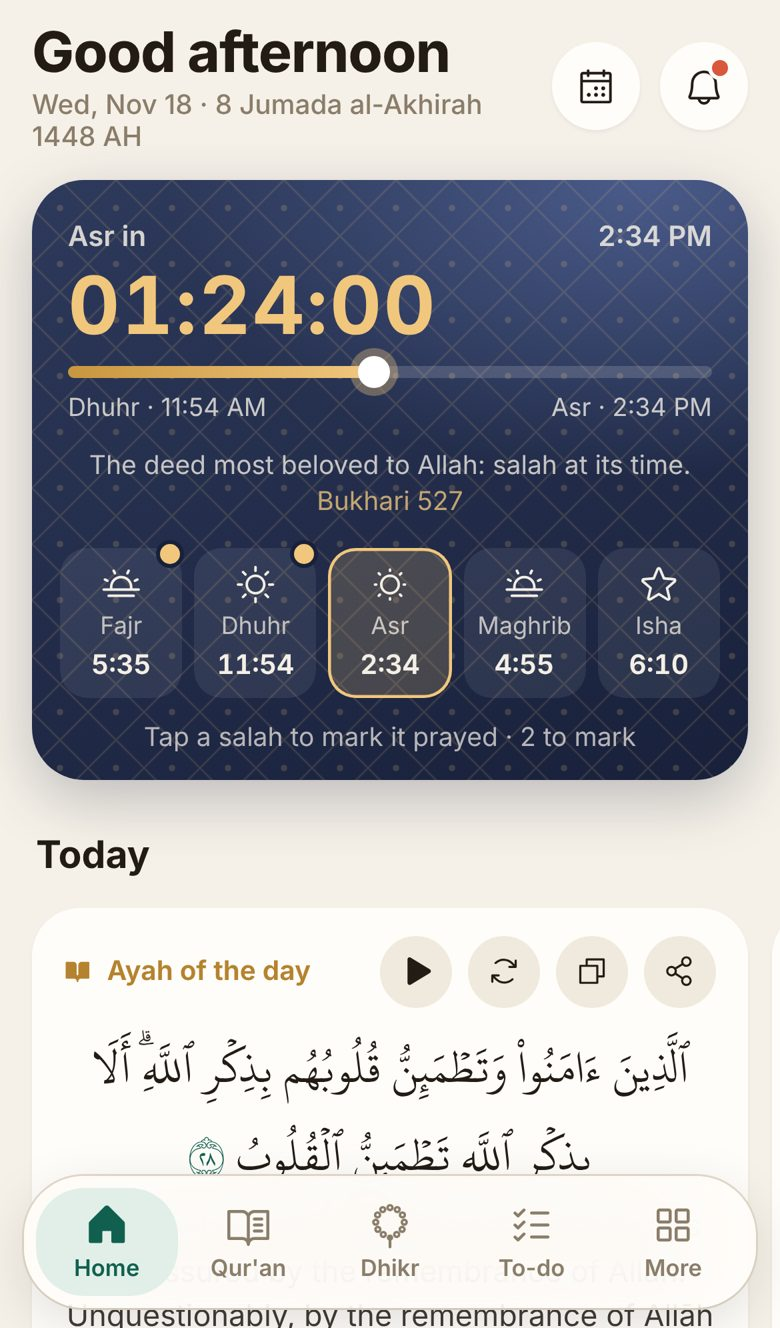
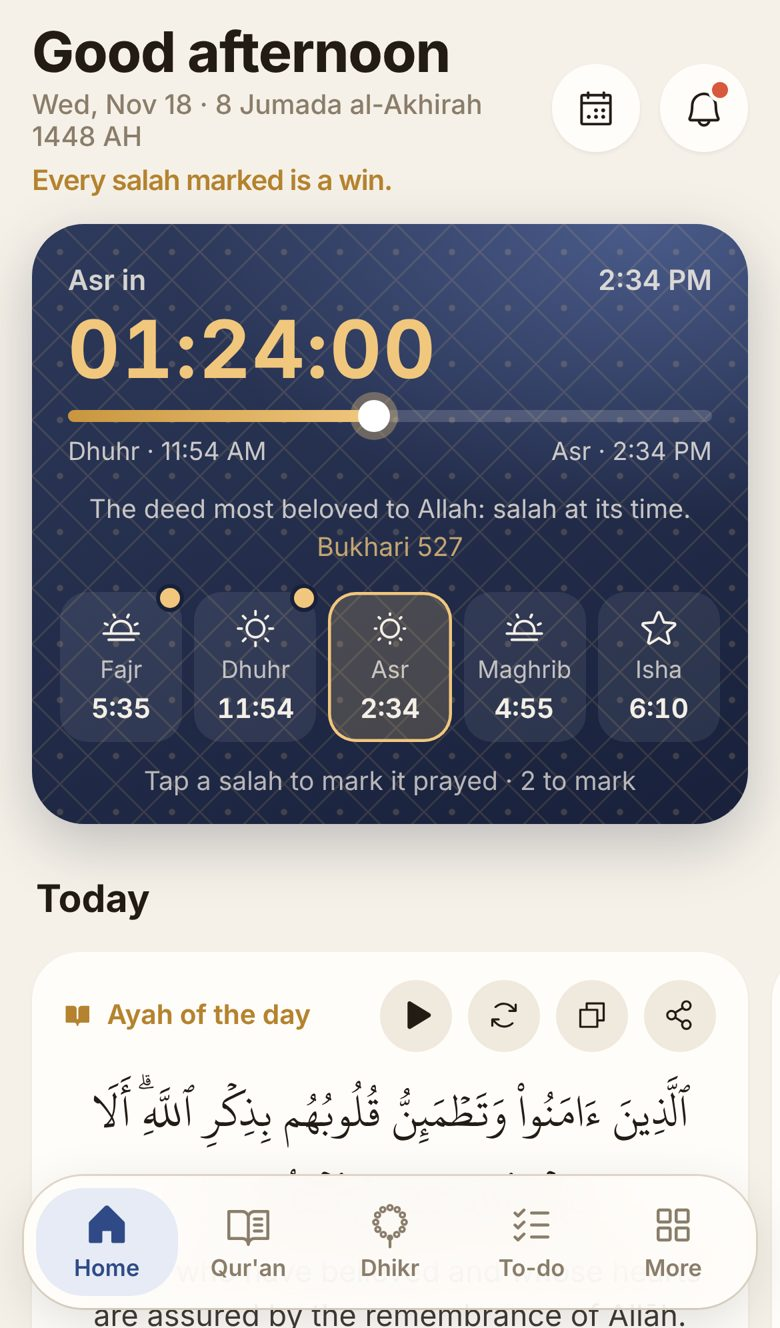
New design: after-salah drop-down, energy check in To-do, encouraging line under the date, blue accent instead of dark green
Claude-Session: https://claude.ai/code/session_01UECNpcPd5R831VkgaqRxPU

diff --git a/next/v5/index.html b/next/v5/index.html
@@ -14,8 +14,8 @@
 @font-face{font-family:Plex;src:url(../design/v/fonts/ibm-plex-sans-arabic-arabic-400-normal.woff2) format("woff2");font-weight:400}
 @font-face{font-family:Plex;src:url(../design/v/fonts/ibm-plex-sans-arabic-arabic-600-normal.woff2) format("woff2");font-weight:600}
 @font-face{font-family:Plex;src:url(../design/v/fonts/ibm-plex-sans-arabic-arabic-700-normal.woff2) format("woff2");font-weight:700}
-:root{--bg:#f6f1e8;--card:#fffdf9;--card2:#f0e9dd;--ink:#221c15;--sub:#8a7d6a;--line:#e6dccd;--acc:#11604f;--accT:#e2efe9;--gold:#b5832f;--goldT:#f6ead3;--night1:#18203a;--night2:#2e3a5c;--ok:#1f8a5c;--r:20px}
-html.dark{--bg:#12110e;--card:#1d1b17;--card2:#26231e;--ink:#f3eee5;--sub:#a59a88;--line:#2f2b24;--acc:#62c7a5;--accT:#163a30;--gold:#e0b265;--goldT:#3a2f1c;--night1:#0d1226;--night2:#1c2645}
+:root{--bg:#f6f1e8;--card:#fffdf9;--card2:#f0e9dd;--ink:#221c15;--sub:#8a7d6a;--line:#e6dccd;--acc:#2f4a86;--accT:#e6ebf6;--gold:#b5832f;--goldT:#f6ead3;--night1:#18203a;--night2:#2e3a5c;--ok:#1f8a5c;--r:20px}
+html.dark{--bg:#12110e;--card:#1d1b17;--card2:#26231e;--ink:#f3eee5;--sub:#a59a88;--line:#2f2b24;--acc:#9db8f0;--accT:#1c2645;--gold:#e0b265;--goldT:#3a2f1c;--night1:#0d1226;--night2:#1c2645}
 *{box-sizing:border-box;-webkit-tap-highlight-color:transparent}
 html,body{margin:0;background:var(--bg);color:var(--ink);font:16px/1.45 Inter,Plex,-apple-system,system-ui,sans-serif;-webkit-font-smoothing:antialiased}
 html[dir=rtl] body{font-family:Plex,Inter,-apple-system,sans-serif}
@@ -296,6 +296,18 @@ html.dark .big{color:#08251d}
 .kh .go{border:0;background:var(--accT);color:var(--acc);border-radius:16px;padding:8px 14px;font-weight:650;font-size:14px}
 .ghost{width:100%;height:52px;border-radius:18px;border:1.5px dashed var(--gold);background:none;color:var(--gold);font-weight:650;font-size:16px;display:flex;align-items:center;justify-content:center;gap:6px}
 .dc .am{color:var(--acc)}
+.aft{background:var(--card);border-radius:18px;margin:4px 0 10px;overflow:hidden}
+.aft summary{list-style:none;display:flex;align-items:center;gap:10px;padding:14px;font-weight:650;font-size:16px;cursor:pointer}.aft summary::-webkit-details-marker{display:none}
+.aft summary>i:first-child{font-size:22px;color:var(--gold)}.aft summary span{flex:1}.aft summary em{font-style:normal;font-size:13px;color:var(--sub);background:var(--card2);border-radius:999px;padding:3px 9px}
+.aft summary .cv{transition:transform .2s}.aft[open] summary .cv{transform:rotate(180deg)}
+.aft .ar-row{display:flex;gap:12px;align-items:flex-start;padding:10px 14px 12px;border-top:1px solid var(--line)}
+.aft .ck{flex:none;width:30px;height:30px;border-radius:50%;border:1.5px solid var(--line);background:none;color:transparent;font-weight:800;margin-top:1px}
+.aft .on .ck{background:var(--ok);border-color:var(--ok);color:#fff}
+.aft .tx b{display:block;font-size:15px}.aft .tx small{display:block;color:var(--sub);font-size:13px;line-height:1.45;margin-top:2px}.aft .tx a,.aft .src{color:var(--acc);text-decoration:none;white-space:nowrap}
+.insp{display:block;margin-top:6px;font-size:14px;font-weight:600;color:var(--gold)}
+.en{display:flex;align-items:center;gap:8px;margin:0 0 12px;font-size:14px;color:var(--sub)}.en b{font-weight:650;color:var(--ink);margin-inline-end:auto}
+.en button{border:0;border-radius:999px;padding:7px 12px;background:var(--card);color:var(--ink);font-size:13.5px;font-weight:600}.en button.on{background:var(--goldT);box-shadow:0 0 0 1.5px var(--gold) inset}
+.sz{font-style:normal;font-size:12px;color:var(--sub);background:var(--card2);border-radius:999px;padding:2px 8px;margin-inline-start:6px;white-space:nowrap}
 </style>
 </head>
 <body>
@@ -362,6 +374,7 @@ html.dark .big{color:#08251d}
 <!-- TODO -->
 <section class="scr" id="s-todo">
  <div class="hd"><h1 data-t="To-do|المهام"></h1></div>
+ <div class="en" id="en"></div>
  <form class="qa" id="qa"><input id="qaIn" autocomplete="off"><button aria-label="Add"><i class="ph ph-plus"></i></button></form>
  <div class="tk" id="tList"></div>
  <div class="sec"><h2 data-t="Done today|أُنجز اليوم"></h2></div>
@@ -425,7 +438,7 @@ html.dark .big{color:#08251d}
 <div class="toast" id="toast"></div>
 
 <script>
-const DATA={"Q":{"2:255":{"a":"ٱللَّهُ لَآ إِلَٰهَ إِلَّا هُوَ ٱلۡحَيُّ ٱلۡقَيُّومُۚ لَا تَأۡخُذُهُۥ سِنَةࣱ وَلَا نَوۡمࣱۚ لَّهُۥ مَا فِي ٱلسَّمَٰوَٰتِ وَمَا فِي ٱلۡأَرۡضِۗ مَن ذَا ٱلَّذِي يَشۡفَعُ عِندَهُۥٓ إِلَّا بِإِذۡنِهِۦۚ يَعۡلَمُ مَا بَيۡنَ أَيۡدِيهِمۡ وَمَا خَلۡفَهُمۡۖ وَلَا يُحِيطُونَ بِشَيۡءࣲ مِّنۡ عِلۡمِهِۦٓ إِلَّا بِمَا شَآءَۚ وَسِعَ كُرۡسِيُّهُ ٱلسَّمَٰوَٰتِ وَٱلۡأَرۡضَۖ وَلَا يَـُٔودُهُۥ حِفۡظُهُمَاۚ وَهُوَ ٱلۡعَلِيُّ ٱلۡعَظِيمُ","en":"Allāh - there is no deity except Him, the Ever-Living, the Self-Sustaining. Neither drowsiness overtakes Him nor sleep. To Him belongs whatever is in the heavens and whatever is on the earth. Who is it that can intercede with Him except by His permission? He knows what is [presently] before them and what will be after them, and they encompass not a thing of His knowledge except for what He wills. His Kursī extends over the heavens and the earth, and their preservation tires Him not. And He is the Most High, the Most Great."},"2:285":{"a":"ءَامَنَ ٱلرَّسُولُ بِمَآ أُنزِلَ إِلَيۡهِ مِن رَّبِّهِۦ وَٱلۡمُؤۡمِنُونَۚ كُلٌّ ءَامَنَ بِٱللَّهِ وَمَلَٰٓئِكَتِهِۦ وَكُتُبِهِۦ وَرُسُلِهِۦ لَا نُفَرِّقُ بَيۡنَ أَحَدࣲ مِّن رُّسُلِهِۦۚ وَقَالُواْ سَمِعۡنَا وَأَطَعۡنَاۖ غُفۡرَانَكَ رَبَّنَا وَإِلَيۡكَ ٱلۡمَصِيرُ","en":"The Messenger has believed in what was revealed to him from his Lord, and [so have] the believers. All of them have believed in Allāh and His angels and His books and His messengers, [saying], \"We make no distinction between any of His messengers.\" And they say, \"We hear and we obey. [We seek] Your forgiveness, our Lord, and to You is the [final] destination.\""},"2:286":{"a":"لَا يُكَلِّفُ ٱللَّهُ نَفۡسًا إِلَّا وُسۡعَهَاۚ لَهَا مَا كَسَبَتۡ وَعَلَيۡهَا مَا ٱكۡتَسَبَتۡۗ رَبَّنَا لَا تُؤَاخِذۡنَآ إِن نَّسِينَآ أَوۡ أَخۡطَأۡنَاۚ رَبَّنَا وَلَا تَحۡمِلۡ عَلَيۡنَآ إِصۡرࣰا كَمَا حَمَلۡتَهُۥ عَلَى ٱلَّذِينَ مِن قَبۡلِنَاۚ رَبَّنَا وَلَا تُحَمِّلۡنَا مَا لَا طَاقَةَ لَنَا بِهِۦۖ وَٱعۡفُ عَنَّا وَٱغۡفِرۡ لَنَا وَٱرۡحَمۡنَآۚ أَنتَ مَوۡلَىٰنَا فَٱنصُرۡنَا عَلَى ٱلۡقَوۡمِ ٱلۡكَٰفِرِينَ","en":"Allāh does not charge a soul except [with that within] its capacity. It will have [the consequence of] what [good] it has gained, and it will bear [the consequence of] what [evil] it has earned. \"Our Lord, do not impose blame upon us if we have forgotten or erred. Our Lord, and lay not upon us a burden like that which You laid upon those before us. Our Lord, and burden us not with that which we have no ability to bear. And pardon us; and forgive us; and have mercy upon us. You are our protector, so give us victory over the disbelieving people.\""},"94:5":{"a":"فَإِنَّ مَعَ ٱلۡعُسۡرِ يُسۡرًا","en":"For indeed, with hardship [will be] ease [i.e., relief]."},"94:6":{"a":"إِنَّ مَعَ ٱلۡعُسۡرِ يُسۡرࣰا","en":"Indeed, with hardship [will be] ease."},"94:7":{"a":"فَإِذَا فَرَغۡتَ فَٱنصَبۡ","en":"So when you have finished [your duties], then stand up [for worship]."},"94:8":{"a":"وَإِلَىٰ رَبِّكَ فَٱرۡغَب","en":"And to your Lord direct [your] longing."},"112:1":{"a":"قُلۡ هُوَ ٱللَّهُ أَحَدٌ","en":"Say, \"He is Allāh, [who is] One,"},"112:2":{"a":"ٱللَّهُ ٱلصَّمَدُ","en":"Allāh, the Eternal Refuge."},"112:3":{"a":"لَمۡ يَلِدۡ وَلَمۡ يُولَدۡ","en":"He neither begets nor is born,"},"112:4":{"a":"وَلَمۡ يَكُن لَّهُۥ كُفُوًا أَحَدُۢ","en":"Nor is there to Him any equivalent.\""},"113:1":{"a":"قُلۡ أَعُوذُ بِرَبِّ ٱلۡفَلَقِ","en":"Say, \"I seek refuge in the Lord of daybreak"},"113:2":{"a":"مِن شَرِّ مَا خَلَقَ","en":"From the evil of that which He created"},"113:3":{"a":"وَمِن شَرِّ غَاسِقٍ إِذَا وَقَبَ","en":"And from the evil of darkness when it settles"},"113:4":{"a":"وَمِن شَرِّ ٱلنَّفَّٰثَٰتِ فِي ٱلۡعُقَدِ","en":"And from the evil of the blowers in knots"},"113:5":{"a":"وَمِن شَرِّ حَاسِدٍ إِذَا حَسَدَ","en":"And from the evil of an envier when he envies.\""},"114:1":{"a":"قُلۡ أَعُوذُ بِرَبِّ ٱلنَّاسِ","en":"Say, \"I seek refuge in the Lord of mankind,"},"114:2":{"a":"مَلِكِ ٱلنَّاسِ","en":"The Sovereign of mankind,"},"114:3":{"a":"إِلَٰهِ ٱلنَّاسِ","en":"The God of mankind,"},"114:4":{"a":"مِن شَرِّ ٱلۡوَسۡوَاسِ ٱلۡخَنَّاسِ","en":"From the evil of the retreating whisperer -"},"114:5":{"a":"ٱلَّذِي يُوَسۡوِسُ فِي صُدُورِ ٱلنَّاسِ","en":"Who whispers [evil] into the breasts of mankind -"},"114:6":{"a":"مِنَ ٱلۡجِنَّةِ وَٱلنَّاسِ","en":"From among the jinn and mankind.\""},"13:28":{"a":"ٱلَّذِينَ ءَامَنُواْ وَتَطۡمَئِنُّ قُلُوبُهُم بِذِكۡرِ ٱللَّهِۗ أَلَا بِذِكۡرِ ٱللَّهِ تَطۡمَئِنُّ ٱلۡقُلُوبُ","en":"Those who have believed and whose hearts are assured by the remembrance of Allāh. Unquestionably, by the remembrance of Allāh hearts are assured."}},"S":[["Al-Fatihah","الفاتحة",7],["Al-Baqarah","البقرة",286],["Ali 'Imran","آل عمران",200],["An-Nisa","النساء",176],["Al-Ma'idah","المائدة",120],["Al-An'am","الأنعام",165],["Al-A'raf","الأعراف",206],["Al-Anfal","الأنفال",75],["At-Tawbah","التوبة",129],["Yunus","يونس",109],["Hud","هود",123],["Yusuf","يوسف",111],["Ar-Ra'd","الرعد",43],["Ibrahim","إبراهيم",52],["Al-Hijr","الحجر",99],["An-Nahl","النحل",128],["Al-Isra","الإسراء",111],["Al-Kahf","الكهف",110],["Maryam","مريم",98],["Ta-Ha","طه",135],["Al-Anbiya","الأنبياء",112],["Al-Hajj","الحج",78],["Al-Mu'minun","المؤمنون",118],["An-Nur","النور",64],["Al-Furqan","الفرقان",77],["Ash-Shu'ara","الشعراء",227],["An-Naml","النمل",93],["Al-Qasas","القصص",88],["Al-'Ankabut","العنكبوت",69],["Ar-Rum","الروم",60],["Luqman","لقمان",34],["As-Sajdah","السجدة",30],["Al-Ahzab","الأحزاب",73],["Saba","سبأ",54],["Fatir","فاطر",45],["Ya-Sin","يس",83],["As-Saffat","الصافات",182],["Sad","ص",88],["Az-Zumar","الزمر",75],["Ghafir","غافر",85],["Fussilat","فصلت",54],["Ash-Shura","الشورى",53],["Az-Zukhruf","الزخرف",89],["Ad-Dukhan","الدخان",59],["Al-Jathiyah","الجاثية",37],["Al-Ahqaf","الأحقاف",35],["Muhammad","محمد",38],["Al-Fath","الفتح",29],["Al-Hujurat","الحجرات",18],["Qaf","ق",45],["Adh-Dhariyat","الذاريات",60],["At-Tur","الطور",49],["An-Najm","النجم",62],["Al-Qamar","القمر",55],["Ar-Rahman","الرحمن",78],["Al-Waqi'ah","الواقعة",96],["Al-Hadid","الحديد",29],["Al-Mujadilah","المجادلة",22],["Al-Hashr","الحشر",24],["Al-Mumtahanah","الممتحنة",13],["As-Saff","الصف",14],["Al-Jumu'ah","الجمعة",11],["Al-Munafiqun","المنافقون",11],["At-Taghabun","التغابن",18],["At-Talaq","الطلاق",12],["At-Tahrim","التحريم",12],["Al-Mulk","الملك",30],["Al-Qalam","القلم",52],["Al-Haqqah","الحاقة",52],["Al-Ma'arij","المعارج",44],["Nuh","نوح",28],["Al-Jinn","الجن",28],["Al-Muzzammil","المزمل",20],["Al-Muddaththir","المدثر",56],["Al-Qiyamah","القيامة",40],["Al-Insan","الإنسان",31],["Al-Mursalat","المرسلات",50],["An-Naba","النبأ",40],["An-Nazi'at","النازعات",46],["'Abasa","عبس",42],["At-Takwir","التكوير",29],["Al-Infitar","الانفطار",19],["Al-Mutaffifin","المطففين",36],["Al-Inshiqaq","الانشقاق",25],["Al-Buruj","البروج",22],["At-Tariq","الطارق",17],["Al-A'la","الأعلى",19],["Al-Ghashiyah","الغاشية",26],["Al-Fajr","الفجر",30],["Al-Balad","البلد",20],["Ash-Shams","الشمس",15],["Al-Layl","الليل",21],["Ad-Duha","الضحى",11],["Ash-Sharh","الشرح",8],["At-Tin","التين",8],["Al-'Alaq","العلق",19],["Al-Qadr","القدر",5],["Al-Bayyinah","البينة",8],["Az-Zalzalah","الزلزلة",8],["Al-'Adiyat","العاديات",11],["Al-Qari'ah","القارعة",11],["At-Takathur","التكاثر",8],["Al-'Asr","العصر",3],["Al-Humazah","الهمزة",9],["Al-Fil","الفيل",5],["Quraysh","قريش",4],["Al-Ma'un","الماعون",7],["Al-Kawthar","الكوثر",3],["Al-Kafirun","الكافرون",6],["An-Nasr","النصر",3],["Al-Masad","المسد",5],["Al-Ikhlas","الإخلاص",4],["Al-Falaq","الفلق",5],["An-Nas","الناس",6]]};const QD=DATA.Q,SU=DATA.S;for(const k in QD)QD[k].a=QD[k].a.replace(/\u08F0/g,'\u064B').replace(/\u08F1/g,'\u064C').replace(/\u08F2/g,'\u064D');
+const DATA={"Q":{"2:255":{"a":"ٱللَّهُ لَآ إِلَٰهَ إِلَّا هُوَ ٱلۡحَيُّ ٱلۡقَيُّومُۚ لَا تَأۡخُذُهُۥ سِنَةٌ وَلَا نَوۡمٌۚ لَّهُۥ مَا فِي ٱلسَّمَٰوَٰتِ وَمَا فِي ٱلۡأَرۡضِۗ مَن ذَا ٱلَّذِي يَشۡفَعُ عِندَهُۥٓ إِلَّا بِإِذۡنِهِۦۚ يَعۡلَمُ مَا بَيۡنَ أَيۡدِيهِمۡ وَمَا خَلۡفَهُمۡۖ وَلَا يُحِيطُونَ بِشَيۡءٍ مِّنۡ عِلۡمِهِۦٓ إِلَّا بِمَا شَآءَۚ وَسِعَ كُرۡسِيُّهُ ٱلسَّمَٰوَٰتِ وَٱلۡأَرۡضَۖ وَلَا يَـُٔودُهُۥ حِفۡظُهُمَاۚ وَهُوَ ٱلۡعَلِيُّ ٱلۡعَظِيمُ","en":"Allāh - there is no deity except Him, the Ever-Living, the Self-Sustaining. Neither drowsiness overtakes Him nor sleep. To Him belongs whatever is in the heavens and whatever is on the earth. Who is it that can intercede with Him except by His permission? He knows what is [presently] before them and what will be after them, and they encompass not a thing of His knowledge except for what He wills. His Kursī extends over the heavens and the earth, and their preservation tires Him not. And He is the Most High, the Most Great."},"2:285":{"a":"ءَامَنَ ٱلرَّسُولُ بِمَآ أُنزِلَ إِلَيۡهِ مِن رَّبِّهِۦ وَٱلۡمُؤۡمِنُونَۚ كُلٌّ ءَامَنَ بِٱللَّهِ وَمَلَٰٓئِكَتِهِۦ وَكُتُبِهِۦ وَرُسُلِهِۦ لَا نُفَرِّقُ بَيۡنَ أَحَدٍ مِّن رُّسُلِهِۦۚ وَقَالُواْ سَمِعۡنَا وَأَطَعۡنَاۖ غُفۡرَانَكَ رَبَّنَا وَإِلَيۡكَ ٱلۡمَصِيرُ","en":"The Messenger has believed in what was revealed to him from his Lord, and [so have] the believers. All of them have believed in Allāh and His angels and His books and His messengers, [saying], \"We make no distinction between any of His messengers.\" And they say, \"We hear and we obey. [We seek] Your forgiveness, our Lord, and to You is the [final] destination.\""},"2:286":{"a":"لَا يُكَلِّفُ ٱللَّهُ نَفۡسًا إِلَّا وُسۡعَهَاۚ لَهَا مَا كَسَبَتۡ وَعَلَيۡهَا مَا ٱكۡتَسَبَتۡۗ رَبَّنَا لَا تُؤَاخِذۡنَآ إِن نَّسِينَآ أَوۡ أَخۡطَأۡنَاۚ رَبَّنَا وَلَا تَحۡمِلۡ عَلَيۡنَآ إِصۡرًا كَمَا حَمَلۡتَهُۥ عَلَى ٱلَّذِينَ مِن قَبۡلِنَاۚ رَبَّنَا وَلَا تُحَمِّلۡنَا مَا لَا طَاقَةَ لَنَا بِهِۦۖ وَٱعۡفُ عَنَّا وَٱغۡفِرۡ لَنَا وَٱرۡحَمۡنَآۚ أَنتَ مَوۡلَىٰنَا فَٱنصُرۡنَا عَلَى ٱلۡقَوۡمِ ٱلۡكَٰفِرِينَ","en":"Allāh does not charge a soul except [with that within] its capacity. It will have [the consequence of] what [good] it has gained, and it will bear [the consequence of] what [evil] it has earned. \"Our Lord, do not impose blame upon us if we have forgotten or erred. Our Lord, and lay not upon us a burden like that which You laid upon those before us. Our Lord, and burden us not with that which we have no ability to bear. And pardon us; and forgive us; and have mercy upon us. You are our protector, so give us victory over the disbelieving people.\""},"94:5":{"a":"فَإِنَّ مَعَ ٱلۡعُسۡرِ يُسۡرًا","en":"For indeed, with hardship [will be] ease [i.e., relief]."},"94:6":{"a":"إِنَّ مَعَ ٱلۡعُسۡرِ يُسۡرًا","en":"Indeed, with hardship [will be] ease."},"94:7":{"a":"فَإِذَا فَرَغۡتَ فَٱنصَبۡ","en":"So when you have finished [your duties], then stand up [for worship]."},"94:8":{"a":"وَإِلَىٰ رَبِّكَ فَٱرۡغَب","en":"And to your Lord direct [your] longing."},"112:1":{"a":"قُلۡ هُوَ ٱللَّهُ أَحَدٌ","en":"Say, \"He is Allāh, [who is] One,"},"112:2":{"a":"ٱللَّهُ ٱلصَّمَدُ","en":"Allāh, the Eternal Refuge."},"112:3":{"a":"لَمۡ يَلِدۡ وَلَمۡ يُولَدۡ","en":"He neither begets nor is born,"},"112:4":{"a":"وَلَمۡ يَكُن لَّهُۥ كُفُوًا أَحَدُۢ","en":"Nor is there to Him any equivalent.\""},"113:1":{"a":"قُلۡ أَعُوذُ بِرَبِّ ٱلۡفَلَقِ","en":"Say, \"I seek refuge in the Lord of daybreak"},"113:2":{"a":"مِن شَرِّ مَا خَلَقَ","en":"From the evil of that which He created"},"113:3":{"a":"وَمِن شَرِّ غَاسِقٍ إِذَا وَقَبَ","en":"And from the evil of darkness when it settles"},"113:4":{"a":"وَمِن شَرِّ ٱلنَّفَّٰثَٰتِ فِي ٱلۡعُقَدِ","en":"And from the evil of the blowers in knots"},"113:5":{"a":"وَمِن شَرِّ حَاسِدٍ إِذَا حَسَدَ","en":"And from the evil of an envier when he envies.\""},"114:1":{"a":"قُلۡ أَعُوذُ بِرَبِّ ٱلنَّاسِ","en":"Say, \"I seek refuge in the Lord of mankind,"},"114:2":{"a":"مَلِكِ ٱلنَّاسِ","en":"The Sovereign of mankind,"},"114:3":{"a":"إِلَٰهِ ٱلنَّاسِ","en":"The God of mankind,"},"114:4":{"a":"مِن شَرِّ ٱلۡوَسۡوَاسِ ٱلۡخَنَّاسِ","en":"From the evil of the retreating whisperer -"},"114:5":{"a":"ٱلَّذِي يُوَسۡوِسُ فِي صُدُورِ ٱلنَّاسِ","en":"Who whispers [evil] into the breasts of mankind -"},"114:6":{"a":"مِنَ ٱلۡجِنَّةِ وَٱلنَّاسِ","en":"From among the jinn and mankind.\""},"13:28":{"a":"ٱلَّذِينَ ءَامَنُواْ وَتَطۡمَئِنُّ قُلُوبُهُم بِذِكۡرِ ٱللَّهِۗ أَلَا بِذِكۡرِ ٱللَّهِ تَطۡمَئِنُّ ٱلۡقُلُوبُ","en":"Those who have believed and whose hearts are assured by the remembrance of Allāh. Unquestionably, by the remembrance of Allāh hearts are assured."}},"S":[["Al-Fatihah","الفاتحة",7],["Al-Baqarah","البقرة",286],["Ali 'Imran","آل عمران",200],["An-Nisa","النساء",176],["Al-Ma'idah","المائدة",120],["Al-An'am","الأنعام",165],["Al-A'raf","الأعراف",206],["Al-Anfal","الأنفال",75],["At-Tawbah","التوبة",129],["Yunus","يونس",109],["Hud","هود",123],["Yusuf","يوسف",111],["Ar-Ra'd","الرعد",43],["Ibrahim","إبراهيم",52],["Al-Hijr","الحجر",99],["An-Nahl","النحل",128],["Al-Isra","الإسراء",111],["Al-Kahf","الكهف",110],["Maryam","مريم",98],["Ta-Ha","طه",135],["Al-Anbiya","الأنبياء",112],["Al-Hajj","الحج",78],["Al-Mu'minun","المؤمنون",118],["An-Nur","النور",64],["Al-Furqan","الفرقان",77],["Ash-Shu'ara","الشعراء",227],["An-Naml","النمل",93],["Al-Qasas","القصص",88],["Al-'Ankabut","العنكبوت",69],["Ar-Rum","الروم",60],["Luqman","لقمان",34],["As-Sajdah","السجدة",30],["Al-Ahzab","الأحزاب",73],["Saba","سبأ",54],["Fatir","فاطر",45],["Ya-Sin","يس",83],["As-Saffat","الصافات",182],["Sad","ص",88],["Az-Zumar","الزمر",75],["Ghafir","غافر",85],["Fussilat","فصلت",54],["Ash-Shura","الشورى",53],["Az-Zukhruf","الزخرف",89],["Ad-Dukhan","الدخان",59],["Al-Jathiyah","الجاثية",37],["Al-Ahqaf","الأحقاف",35],["Muhammad","محمد",38],["Al-Fath","الفتح",29],["Al-Hujurat","الحجرات",18],["Qaf","ق",45],["Adh-Dhariyat","الذاريات",60],["At-Tur","الطور",49],["An-Najm","النجم",62],["Al-Qamar","القمر",55],["Ar-Rahman","الرحمن",78],["Al-Waqi'ah","الواقعة",96],["Al-Hadid","الحديد",29],["Al-Mujadilah","المجادلة",22],["Al-Hashr","الحشر",24],["Al-Mumtahanah","الممتحنة",13],["As-Saff","الصف",14],["Al-Jumu'ah","الجمعة",11],["Al-Munafiqun","المنافقون",11],["At-Taghabun","التغابن",18],["At-Talaq","الطلاق",12],["At-Tahrim","التحريم",12],["Al-Mulk","الملك",30],["Al-Qalam","القلم",52],["Al-Haqqah","الحاقة",52],["Al-Ma'arij","المعارج",44],["Nuh","نوح",28],["Al-Jinn","الجن",28],["Al-Muzzammil","المزمل",20],["Al-Muddaththir","المدثر",56],["Al-Qiyamah","القيامة",40],["Al-Insan","الإنسان",31],["Al-Mursalat","المرسلات",50],["An-Naba","النبأ",40],["An-Nazi'at","النازعات",46],["'Abasa","عبس",42],["At-Takwir","التكوير",29],["Al-Infitar","الانفطار",19],["Al-Mutaffifin","المطففين",36],["Al-Inshiqaq","الانشقاق",25],["Al-Buruj","البروج",22],["At-Tariq","الطارق",17],["Al-A'la","الأعلى",19],["Al-Ghashiyah","الغاشية",26],["Al-Fajr","الفجر",30],["Al-Balad","البلد",20],["Ash-Shams","الشمس",15],["Al-Layl","الليل",21],["Ad-Duha","الضحى",11],["Ash-Sharh","الشرح",8],["At-Tin","التين",8],["Al-'Alaq","العلق",19],["Al-Qadr","القدر",5],["Al-Bayyinah","البينة",8],["Az-Zalzalah","الزلزلة",8],["Al-'Adiyat","العاديات",11],["Al-Qari'ah","القارعة",11],["At-Takathur","التكاثر",8],["Al-'Asr","العصر",3],["Al-Humazah","الهمزة",9],["Al-Fil","الفيل",5],["Quraysh","قريش",4],["Al-Ma'un","الماعون",7],["Al-Kawthar","الكوثر",3],["Al-Kafirun","الكافرون",6],["An-Nasr","النصر",3],["Al-Masad","المسد",5],["Al-Ikhlas","الإخلاص",4],["Al-Falaq","الفلق",5],["An-Nas","الناس",6]]};const QD=DATA.Q,SU=DATA.S;for(const k in QD)QD[k].a=QD[k].a.replace(/\u08F0/g,'\u064B').replace(/\u08F1/g,'\u064C').replace(/\u08F2/g,'\u064D');
 const P=new URLSearchParams(location.search);
 let L=P.get('lang')==='ar'||localStorage.getItem('fq5.lang')==='ar'?'ar':'en';if(P.get('lang')==='en')L='en';
 const T=(e,a)=>L==='ar'?a:e;
@@ -457,7 +470,7 @@ const hm=m=>T(HM_EN[m-1],HM_AR[m-1]);
 /* ---------- state ---------- */
 let S=store('state')||{};
 S.salah=S.salah||{};S.stars=S.stars||0;S.starLog=S.starLog||{};
-S.tasks=S.tasks||[{id:1,t:T('Reply to the school email','الرد على بريد المدرسة'),due:T('Today, 4:00 PM','اليوم، ٤:٠٠ م'),p:'h'},{id:2,t:T('Buy groceries','شراء البقالة'),due:T('Today','اليوم'),p:'m'},{id:3,t:T('Read 2 pages of Qur\'an','قراءة صفحتين من القرآن'),due:T('After Isha','بعد العشاء'),p:'l'},{id:4,t:T('Call the clinic','الاتصال بالعيادة'),due:T('Tomorrow, 10:00 AM','غدًا، ١٠:٠٠ ص'),p:'m'}];
+S.tasks=S.tasks||[{id:1,t:T('Reply to the school email','الرد على بريد المدرسة'),due:T('Today, 4:00 PM','اليوم، ٤:٠٠ م'),p:'h',sz:'s'},{id:2,t:T('Buy groceries','شراء البقالة'),due:T('Today','اليوم'),p:'m',sz:'l'},{id:3,t:T('Read 2 pages of Qur\'an','قراءة صفحتين من القرآن'),due:T('After Isha','بعد العشاء'),p:'l',sz:'m'},{id:4,t:T('Call the clinic','الاتصال بالعيادة'),due:T('Tomorrow, 10:00 AM','غدًا، ١٠:٠٠ ص'),p:'m',sz:'s'}];
 S.done=S.done||[];S.sc=S.sc||['kursi','tasbih','morning','evening','qibla','cal','todo'];S.kh=S.kh||[];S.zk=S.zk||{};S.zs=S.zs||{ar:1,tr:1,me:1,size:1,auto:1};
 S.notif=S.notif||null;
 const save=()=>store('state',S);
@@ -497,11 +510,21 @@ function renderSalah(){const now=NOW(),dk=dkey(now),{next}=salahState(now),day=S
   return `<button data-sal="${s[0]}" class="${dn?'dn':''} ${nx?'nx':''} ${past&&!sun&&!dn?'mk':''} ${sun?'sun':''}" aria-label="${s[1]}"><i class="ph ${s[4]}"></i>${T(s[1],s[2])}<b>${f12(s[3]).replace(/ .*/,'')}</b></button>`}).join('');
  $('slh').textContent=todo?T('Tap a salah to mark it prayed · '+todo+' to mark','اضغط على الصلاة لتسجيلها · '+AR(todo)+' للتسجيل'):T('All prayed salah are marked. May Allah accept.','سُجّلت كل الصلوات التي حان وقتها. تقبّل الله.');
  $$('#sl [data-sal]').forEach(b=>b.onclick=()=>{const k=b.dataset.sal;if(k==='sunrise')return;const t=at(SAL.find(s=>s[0]===k)[3],now);if(t>now){toast(T('Not time yet','لم يحن وقتها بعد'));return}salSheet(k)})}
+const AFT=[['ky',T('Ayat al-Kursi','آية الكرسي'),T('Whoever recites it after every obligatory salah, nothing stands between him and Paradise except death.','من قرأها دبر كل صلاة مكتوبة لم يمنعه من دخول الجنة إلا أن يموت.'),T("an-Nasa'i, al-Kubra 9848 · sahih",'النسائي، الكبرى ٩٨٤٨ · صحيح'),''],
+ ['ts',T('Tasbih 33 · 33 · 34','التسبيح ٣٣ · ٣٣ · ٣٤'),T('SubhanAllah 33, Alhamdulillah 33, Allahu akbar 34.','سبحان الله ٣٣، الحمد لله ٣٣، الله أكبر ٣٤.'),T('Muslim 597','مسلم ٥٩٧'),'https://sunnah.com/muslim:597a'],
+ ['az',T('Adhkar after salah','أذكار بعد الصلاة'),T('Astaghfirullah ×3, then Allahumma anta as-salam…','أستغفر الله ×٣، ثم اللهم أنت السلام…'),T('Muslim 591','مسلم ٥٩١'),'https://sunnah.com/muslim:591']];
+const aftDone=(k,dk)=>((S.aft||{})[dk]||{})[k]||{};
+function aftHtml(k,dk){const d=aftDone(k,dk),n=AFT.filter(a=>d[a[0]]).length;
+ return `<details class="aft"${n?' open':''}><summary><i class="ph ph-list-checks"></i><span>${T('After salah','بعد الصلاة')}</span><em>${AR(n)}/${AR(AFT.length)}</em><i class="ph ph-caret-down cv"></i></summary>
+ ${AFT.map(a=>`<div class="ar-row${d[a[0]]?' on':''}"><button class="ck" data-aft="${a[0]}" aria-pressed="${!!d[a[0]]}" aria-label="${a[1]}">✓</button><span class="tx"><b>${a[1]}</b><small>${a[2]} ${a[4]?`<a href="${a[4]}" target="_blank" rel="noopener">${a[3]} ↗</a>`:`<span class="src">${a[3]}</span>`}</small></span></div>`).join('')}</details>`}
+function aftBind(k,dk){$$('#sh [data-aft]').forEach(b=>b.onclick=()=>{S.aft=S.aft||{};S.aft[dk]=S.aft[dk]||{};const o=S.aft[dk][k]=S.aft[dk][k]||{},id=b.dataset.aft;o[id]=!o[id];save();vib(10);
+  b.setAttribute('aria-pressed',!!o[id]);b.closest('.ar-row').classList.toggle('on',!!o[id]);const n=AFT.filter(a=>o[a[0]]).length;document.querySelector('#sh .aft em').textContent=AR(n)+'/'+AR(AFT.length)})}
 function salSheet(k){const s=SAL.find(x=>x[0]===k),dk=dkey(NOW()),cur=(S.salah[dk]||{})[k];
  openSheet(`<div class="hd sub"><span style="width:44px"></span><h1>${T(s[1],s[2])}</h1>${XB}</div>
  <p class="note" style="text-align:center">${T('How did you pray it?','كيف صلّيتها؟')}</p>
  ${[['on',T('On time','في وقتها'),T('Prayed in its time','صُلّيت في وقتها'),'ph-check-circle'],['late',T('Made up','قضاء'),T('Prayed after its time','صُلّيت بعد وقتها'),'ph-clock'],['exc',T('Excused','معذورة'),'','ph-shield-check']].map(([v,a,b,ic])=>`<button class="opt ${cur===v?'on':''}" data-v="${v}"><i class="ph ${ic}"></i><span><b>${a}</b><small>${b}</small></span><span class="rd">✓</span></button>`).join('')}
- ${cur?`<button class="ghost" style="border-color:var(--line);color:var(--sub)" data-v="">${T('Clear','مسح')}</button>`:''}`);
+ ${aftHtml(k,dk)}
+ ${cur?`<button class="ghost" style="border-color:var(--line);color:var(--sub)" data-v="">${T('Clear','مسح')}</button>`:''}`);aftBind(k,dk);
  $$('#sh [data-v]').forEach(b=>b.onclick=()=>{const v=b.dataset.v;S.salah[dk]=S.salah[dk]||{};if(v)S.salah[dk][k]=v;else delete S.salah[dk][k];
   if(v==='on')star('sal-'+dk+'-'+k,T(s[1]+' on time',s[2]+' في وقتها'));else if(!v&&S.starLog['sal-'+dk+'-'+k]){delete S.starLog['sal-'+dk+'-'+k];S.stars--}save();vib(15);closeSheet();renderSalah()})}
 const VA=[['13:28'],['94:5','94:6'],['2:286'],['2:285'],['112:1','112:2','112:3','112:4'],['2:255']];
@@ -536,7 +559,7 @@ function scSheet(){const room=SCMAX-S.sc.length;
  ${grp.map(([h,ks])=>`<h3>${h}</h3><div class="g3">${ks.map(k=>{const[ic,l]=SCALL[k],on=S.sc.includes(k);return `<button class="sv ${on?'sel':''}" data-k="${k}">${on?'<span class="ok">✓</span>':''}${ic==='tsb'?TSB(false):`<i class="ph ${ic}"></i>`}${l}</button>`}).join('')}</div>`).join('')}`);
  $$('#sh [data-k]').forEach(b=>b.onclick=()=>{const k=b.dataset.k,i=S.sc.indexOf(k);if(i>=0)S.sc.splice(i,1);else{if(S.sc.length>=SCMAX){toast(T('Full · remove one first','ممتلئة · احذف واحدًا أولًا'));return}S.sc.push(k)}save();vib(8);renderSc();scSheet()})}
 const PRI={h:'#d9573b',m:'#d9a441',l:'#8fb3a5'};
-function taskRow(t,dn){return `<div class="tr ${dn?'dn':''}"><button class="cb ${dn?'on':''}" data-tk="${t.id}" aria-label="${T('Done','تم')}">✓</button><span class="tx"><b>${esc(t.t)}</b><small>${esc(t.due||'')}</small></span><span class="pri" style="background:${PRI[t.p||'m']}"></span></div>`}
+function taskRow(t,dn){return `<div class="tr ${dn?'dn':''}"><button class="cb ${dn?'on':''}" data-tk="${t.id}" aria-label="${T('Done','تم')}">✓</button><span class="tx"><b>${esc(t.t)}</b><small>${esc(t.due||'')}${t.sz?`<em class="sz">${SZ[t.sz]}</em>`:''}</small></span><span class="pri" style="background:${PRI[t.p||'m']}"></span></div>`}
 function bindTasks(r){$$('[data-tk]',r).forEach(b=>b.onclick=()=>{const id=+b.dataset.tk;let i=S.tasks.findIndex(t=>t.id===id);
  if(i>=0){b.classList.add('on');vib(15);const t=S.tasks.splice(i,1)[0];S.done.unshift(t);star('task-'+id,T('Task done','أنجزت مهمة'))}else{i=S.done.findIndex(t=>t.id===id);const t=S.done.splice(i,1)[0];S.tasks.unshift(t);if(S.starLog['task-'+id]){delete S.starLog['task-'+id];S.stars--}}
  save();setTimeout(()=>{R.home();R.todo()},260)})}
@@ -544,8 +567,10 @@ function renderTasksHome(){const l=S.tasks.slice(0,3);$('hTasks').innerHTML=l.le
 const TOP=[['t1','ph-book-open-text',T("Qur'an",'القرآن'),T('Read, listen, khatmah','قراءة، استماع، ختمة'),['index','kursi','khatmah']],['t2','ph-clock',T('Salah','الصلاة'),T('Times, Qibla, reminders','المواقيت، القبلة، التذكير'),['qibla','notif','cal']],['t3','tsb',T('Dhikr & du\'a','الذكر والدعاء'),T('Morning, evening, sleep','الصباح، المساء، النوم'),['tasbih','morning','evening','sleep']],['t4','ph-list-checks',T('Tasks & focus','المهام والتركيز'),T('To-do, plan your day','المهام، تخطيط اليوم'),['todo']],['t5','ph-star',T('Stars & game','النجوم واللعبة'),T('Rewards for real work','مكافآت لعمل حقيقي'),['stars']],['t6','ph-calendar-check',T('Calendar','التقويم'),T('Hijri dates, fasts','التاريخ الهجري، الصيام'),['cal']]];
 function renderTopics(){$('topics').innerHTML=TOP.map((t,i)=>`<button class="tl ${t[0]}" data-tp="${i}">${t[1]==='tsb'?`<span style="font-size:34px">${TSB(false)}</span>`:`<i class="ph ${t[1]}"></i>`}<b>${t[2]}<small>${t[3]}</small></b></button>`).join('');
  $$('[data-tp]').forEach(b=>b.onclick=()=>{const t=TOP[b.dataset.tp];openSheet(`<div class="hd sub"><span style="width:44px"></span><h1>${t[2]}</h1>${XB}</div><div class="g3">${t[4].map(k=>{const[ic,l]=SCALL[k];return `<button class="sv" data-k="${k}">${ic==='tsb'?TSB(false):`<i class="ph ${ic}"></i>`}${l}</button>`}).join('')}</div>`);$$('#sh [data-k]').forEach(x=>x.onclick=()=>{closeSheet();SCALL[x.dataset.k][2]()})})}
+const INSP=[T('Small deeds, done often, are the most beloved to Allah.','أحبّ الأعمال إلى الله أدومها وإن قلّ.'),T('One step today is still a step forward.','خطوة واحدة اليوم ما زالت تقدّمًا.'),T('You showed up. That counts.','حضرت. وهذا يُحسب لك.'),T('Progress, not perfection.','التقدّم لا الكمال.'),T('Every salah marked is a win.','كل صلاة تسجّلها إنجاز.'),T('Begin with Bismillah and keep going.','ابدأ ببسم الله وتابع.')];
+const inspToday=()=>INSP[Math.floor((NOW()-new Date(NOW().getFullYear(),0,0))/864e5)%INSP.length];
 function greet(){const h=NOW().getHours();return h<12?T('Good morning','صباح الخير'):h<17?T('Good afternoon','نهارك سعيد'):T('Good evening','مساء الخير')}
-R.home=()=>{{const h=hParts(NOW());$('greet').innerHTML=`${greet()}<small>${NOW().toLocaleDateString(L==='ar'?'ar':'en-US',{weekday:'short',month:'short',day:'numeric'})} · ${AR(h.d)} ${hm(h.m)} ${AR(h.y)}${T(' AH',' هـ')}</small>`};renderHero();renderSalah();renderCar();renderHj();renderSc();renderTasksHome();renderTopics();
+R.home=()=>{{const h=hParts(NOW());$('greet').innerHTML=`${greet()}<small>${NOW().toLocaleDateString(L==='ar'?'ar':'en-US',{weekday:'short',month:'short',day:'numeric'})} · ${AR(h.d)} ${hm(h.m)} ${AR(h.y)}${T(' AH',' هـ')}</small><span class="insp">${inspToday()}</span>`};renderHero();renderSalah();renderCar();renderHj();renderSc();renderTasksHome();renderTopics();
  const k=S.kh[0];$('khMini').textContent=k?(k.name||T('My khatmah','ختمتي'))+' · '+AR(Math.round(k.done/604*100))+'%':T('Start a new khatmah','ابدأ ختمة جديدة');
  $('cont').innerHTML=S.noCont?'':`<span class="ic c-g"><i class="ph ph-book-open-text"></i></span><span class="tx"><b>${T('Continue reading','متابعة القراءة')}</b><small>${T('Al-Baqarah · Ayah 255','البقرة · الآية ٢٥٥')}</small></span><button class="go" data-read="2:255">${T('Open','افتح')}</button>`;$('cont').style.display=S.noCont?'none':''};
 setInterval(()=>{if($('s-home').classList.contains('on'))renderHero()},1000);
@@ -624,8 +649,12 @@ $('tsbBtn').onclick=tasbih;
 R.dhikr=()=>{$('zSleepP').textContent=zSum('sleep');$('tsbIc').innerHTML=TSB(false)};
 
 /* ---------- todo ---------- */
-R.todo=()=>{$('qaIn').placeholder=T('Add a task… e.g. "Call the clinic 3pm"','أضف مهمة… مثل "الاتصال بالعيادة ٣م"');
- $('tList').innerHTML=S.tasks.length?S.tasks.map(t=>taskRow(t)).join(''):`<p class="empty">${T('Nothing left. Well done!','لا شيء متبقٍ. أحسنت!')}</p>`;
+const SZ={s:T('5 min','٥ د'),m:T('15 min','١٥ د'),l:T('1 hr+','ساعة+')};
+function renderEn(){const e=S.energy||'';$('en').innerHTML=`<b>${T('Energy right now','طاقتك الآن')}</b>${[['low',T('Low','منخفضة')],['ok',T('Okay','متوسطة')],['high',T('High','عالية')]].map(([v,l])=>`<button data-en="${v}" class="${e===v?'on':''}">${l}</button>`).join('')}`;
+ $$('#en [data-en]').forEach(b=>b.onclick=()=>{S.energy=S.energy===b.dataset.en?'':b.dataset.en;save();vib(8);R.todo()})}
+const enSort=L0=>{const e=S.energy,o={s:0,m:1,l:2};if(!e)return L0;return L0.slice().sort((a,b)=>e==='low'?o[a.sz||'m']-o[b.sz||'m']:e==='high'?o[b.sz||'m']-o[a.sz||'m']:0)};
+R.todo=()=>{renderEn();$('qaIn').placeholder=T('Add a task… e.g. "Call the clinic 3pm"','أضف مهمة… مثل "الاتصال بالعيادة ٣م"');
+ $('tList').innerHTML=S.tasks.length?(S.energy==='low'?`<p class="note" style="margin:0 0 8px">${T('Quick ones first.','السريعة أولًا.')}</p>`:S.energy==='high'?`<p class="note" style="margin:0 0 8px">${T('Big ones first, while you have the energy.','الكبيرة أولًا ما دامت طاقتك عالية.')}</p>`:'')+enSort(S.tasks).map(t=>taskRow(t)).join(''):`<p class="empty">${T('Nothing left. Well done!','لا شيء متبقٍ. أحسنت!')}</p>`;
  $('tDone').innerHTML=S.done.length?S.done.map(t=>taskRow(t,1)).join(''):`<p class="empty">${T('Finished tasks show here','تظهر هنا المهام المنجزة')}</p>`;bindTasks($('tList'));bindTasks($('tDone'))};
 $('qa').onsubmit=e=>{e.preventDefault();const v=$('qaIn').value.trim();if(!v)return;const m=v.match(/\b(\d{1,2})(?::(\d{2}))?\s*(am|pm)\b/i);S.tasks.unshift({id:Date.now(),t:m?v.replace(m[0],'').trim():v,due:m?T('Today, '+m[1]+':'+(m[2]||'00')+' '+m[3].toUpperCase(),'اليوم'):T('Today','اليوم'),p:'m'});save();$('qaIn').value='';vib(10);R.todo()};
 
